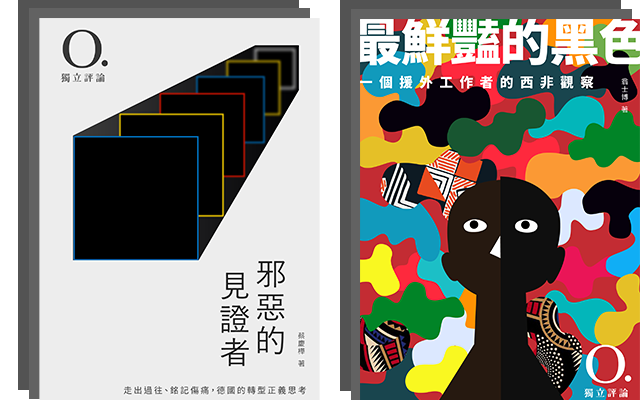
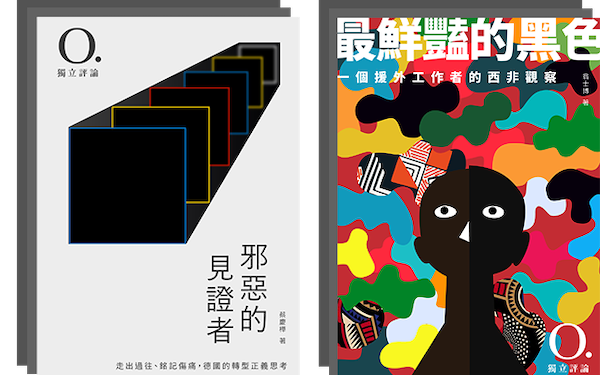
updated

diff --git a/index.html b/index.html
@@ -48,7 +48,6 @@
 <!-- Custom styles for this template -->
 <link href="css/grayscale.min.css" rel="stylesheet">
 </head><body id="page-top" style="font-family:Noto Sans TC, 微軟正黑體;">
-<canvas id="canvas"></canvas>
 
 <!-- Navigation -->
 <nav class="navbar navbar-expand-lg navbar-light fixed-top" id="mainNav" style="z-index: 2000">
@@ -70,15 +69,15 @@
     <div class="row">
       <div class="col-md-6">
         <div class="text-center text-white">
-          <h2 class="mx-auto">這個耶誕，給自己一份最知性的禮物</h2>
+          <h2 class="mx-auto">輕薄時代的深度閱讀</h2>
           <h1 class=" mx-auto"><b>獨立評論電子書</b></h1>
-          <h1 class=""><b>全新上市</b></h1>
+          <h1 class=""><b>熱賣中！</b></h1>
           <p>深耕國際的在地觀點</p>
           <p>德國轉型正義 X 非洲援助發展</p>
           <p>精采論述　一次完整收藏</p>
         </div>
       </div>
-      <div class="col-md-1"> <div class="headerbook"><img src="./img/headerbook.png" class="" style="" alt=""> </div></div>
+      <div class="col-md-1"> <div class="headerbook"><img src="./img/headerbook2.png" class="" style="" alt=""> </div></div>
     </div>
     <a class="js-scroll-trigger" href="#projects1" style="align-content: center"><img class="arrow" src="./img/arrow.svg" alt="" style=""></a> </div>
 </header>

diff --git a/css/grayscale.min.css b/css/grayscale.min.css
@@ -92,11 +92,11 @@ canvas {
 .masthead {
 	position: relative;
 	width: 100%;
-	min-height: 35rem;
-	max-height: 43rem;
+	min-height: 40rem;
+	max-height: 50rem;
 	padding: 8rem 0;
-	background: -webkit-gradient(linear, left top, left bottom, from(rgba(22,22,22,.1)), color-stop(75%, rgba(22,22,22,.5)), to(#161616)), url( ../img/header2);
-	background: linear-gradient(to bottom, rgba(22,22,22,.1) 0, rgba(22,22,22,.5) 75%, #161616 100%), url(../img/header2);
+	background: -webkit-gradient(linear, left top, left bottom, from(rgba(22,22,22,.1)), color-stop(75%, rgba(22,22,22,.5)), to(#161616)), url( ../img/header2.png);
+	background: linear-gradient(to bottom, rgba(22,22,22,.1) 0, rgba(22,22,22,.5) 75%, #161616 100%), url( ../img/header2.png);
 	background-position: center;
 	background-repeat: no-repeat;
 	background-attachment: scroll;
@@ -141,10 +141,10 @@ canvas {
 
 .masthead .headerbook img {
 	position: relative;
-	top: 20px;
-	left: 20%;
-	max-height: 300px;
-	max-width: 300px; 
+	top: 70px;
+	left: 10%;
+	max-height: 350px;
+	max-width: 350px; 
 }
 
 	
@@ -217,14 +217,13 @@ canvas {
 	
 .masthead .headerbook img {
 	position: relative;
-	top: 70px;
-	min-height: 450px;
-	min-width:450px; 
+	top: 150px;
+	min-width:500px;
 }
 
 .masthead a {
 	position: relative;
-	top: 0px;
+	top: 160px;
 	left: 35%;
 	padding-left: 100px;
 	z-index: 1100;
